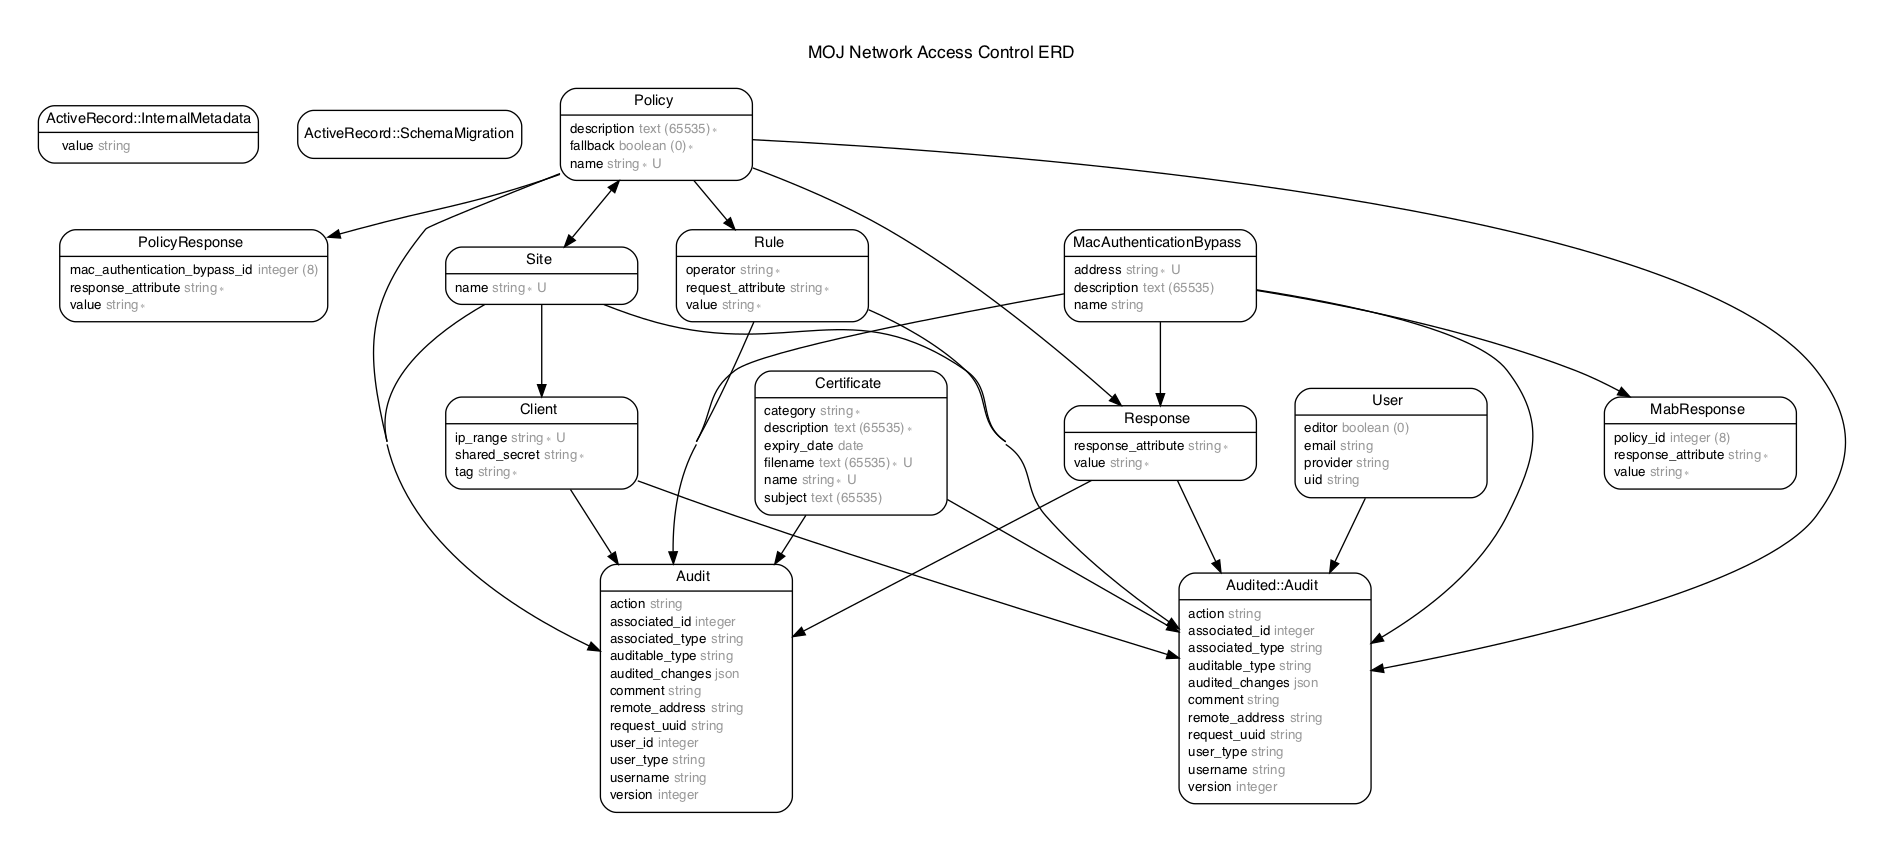
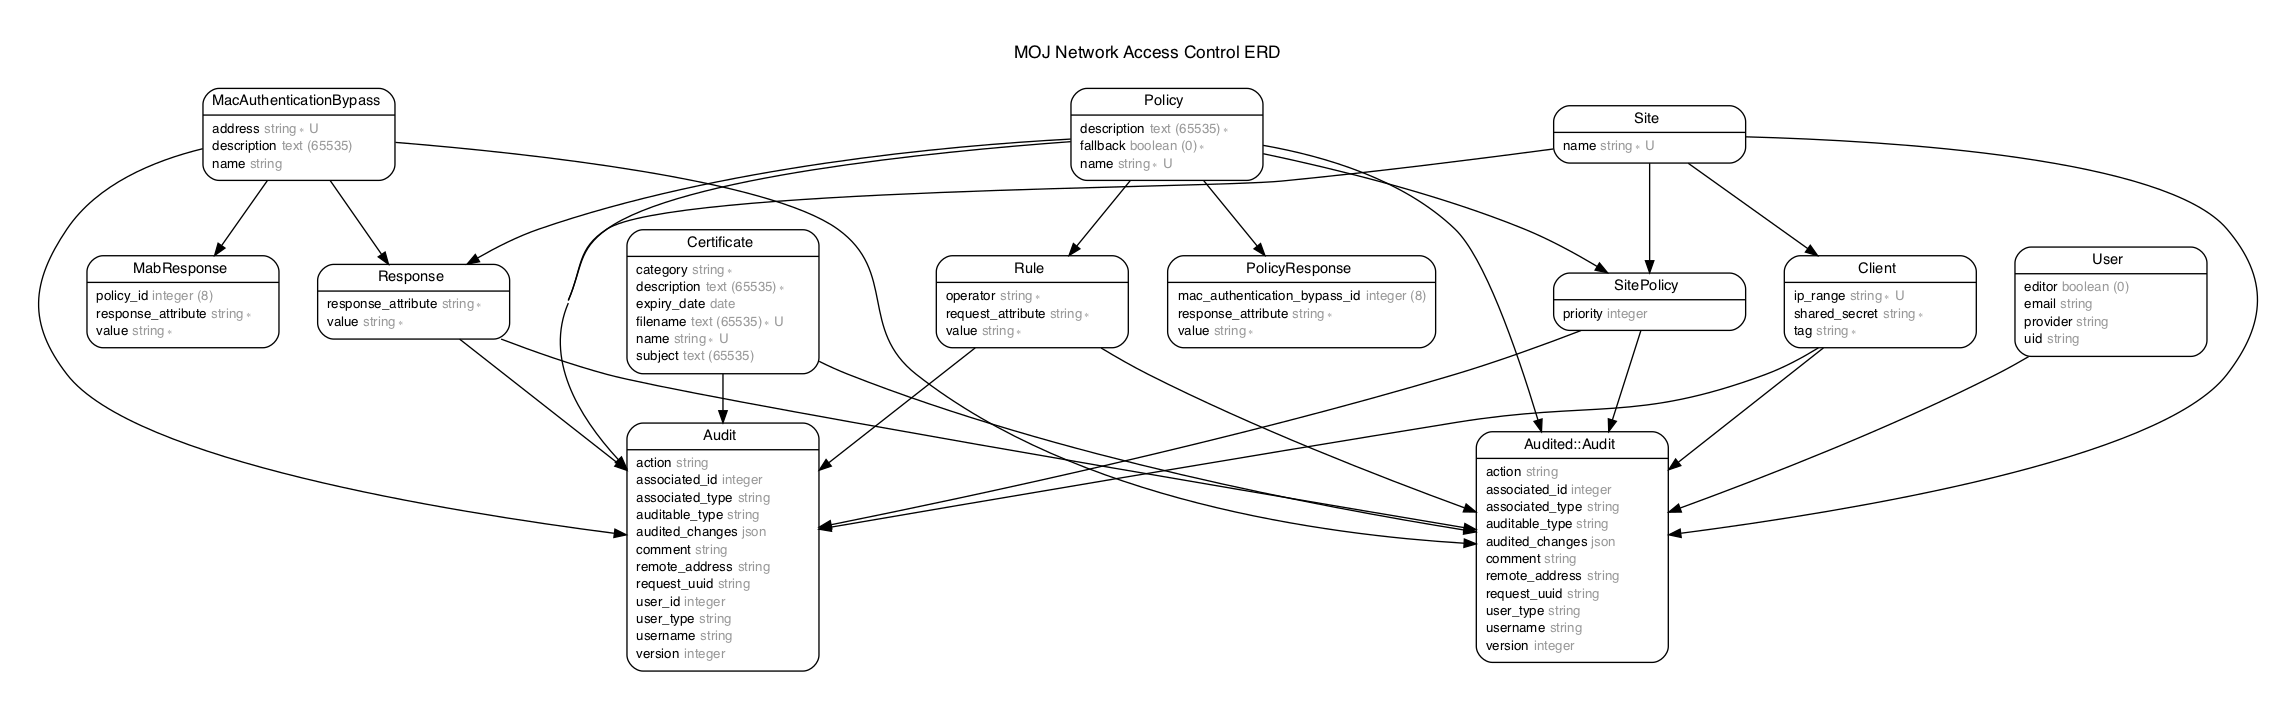
Add rails-erd gem and update diagram (#118)
* Add erd gem without the hook after rails db:migrate

We can still regenareta the ERD using `bundle exec erd`

* Update ERD

* Delete outdated ERD.drawio

diff --git a/README.md b/README.md
@@ -119,6 +119,14 @@ When run locally, you need to target the AWS account directly with AWS Vault.
 ```
 
 ## Entity Relationship Diagram
+The diagram can be generated using [rails-erd](https://voormedia.github.io/rails-erd). Graphviz is a dependency(`brew install graphviz`).
+
+Regenerate the diagram:
+
+```bash
+bundle exec erd
+```
+
 ![The domain model for this application](docs/MOJ-NAC-ERD.png)
 
 ## Maintenance
